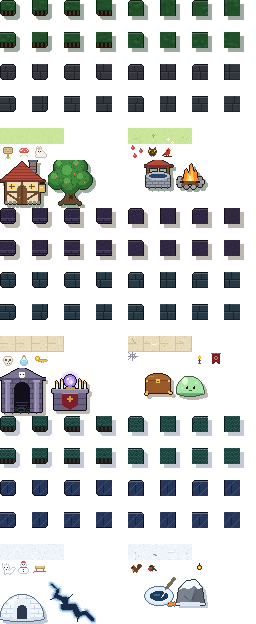
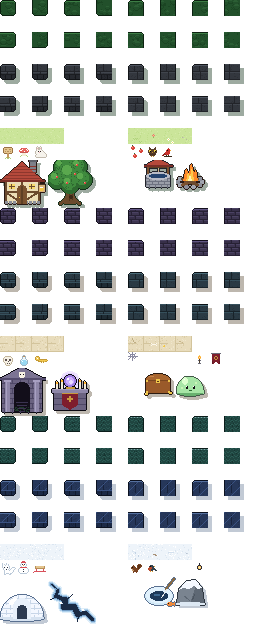
Repérages en relief, autres cases sombres plates
Les carrés de repérage et d'alignement sont des murs 2.5D (façade + ombre
portée) ; les autres modules sombres redeviennent des tuiles plates (briques
d'origine au donjon).

Claude-Session: https://claude.ai/code/session_01Q299Mz9dzUBaboGkzc8wiY

diff --git a/README.md b/README.md
@@ -44,7 +44,7 @@ Noms des mondes (optionnel, sinon « Monde 1 », « Monde 2 »…) dans `public/
 { "worlds": ["Forêt", "Donjon", "Toundra"] }
 ```
 
-**Rendu 2.5D** : tout le sol est dessiné d'abord, puis les murs ligne par ligne. Un mur déborde donc sur le sol voisin (ombre), et ce débordement est recouvert par tout mur situé à droite ou en dessous. Si l'ombre est la forme du mur décalée en bas à droite, deux ombres ne se superposent jamais. Dans le tileset par défaut, un mur sans voisin en dessous montre aussi une façade verticale (troncs, briques). Les carrés de repérage sont des dalles plates (ni façade ni ombre), et les bâtiments debout portent la même ombre que les murs, dessinée dans leur emplacement (la crevasse et le trou de pêche, à plat, n'en ont pas).
+**Rendu 2.5D** : tout le sol est dessiné d'abord, puis les murs ligne par ligne. Un mur déborde donc sur le sol voisin (ombre), et ce débordement est recouvert par tout mur situé à droite ou en dessous. Si l'ombre est la forme du mur décalée en bas à droite, deux ombres ne se superposent jamais. Dans le tileset par défaut, seuls les carrés de repérage et d'alignement sont des murs en relief : façade verticale quand rien n'est en dessous, et ombre portée. Les autres cases sombres sont des tuiles plates. Les bâtiments debout portent la même ombre que les murs, dessinée dans leur emplacement (la crevasse et le trou de pêche, à plat, n'en ont pas).
 
 La transparence partielle (canal alpha) est prise en compte, par exemple pour un slime ou de la glace.
 
